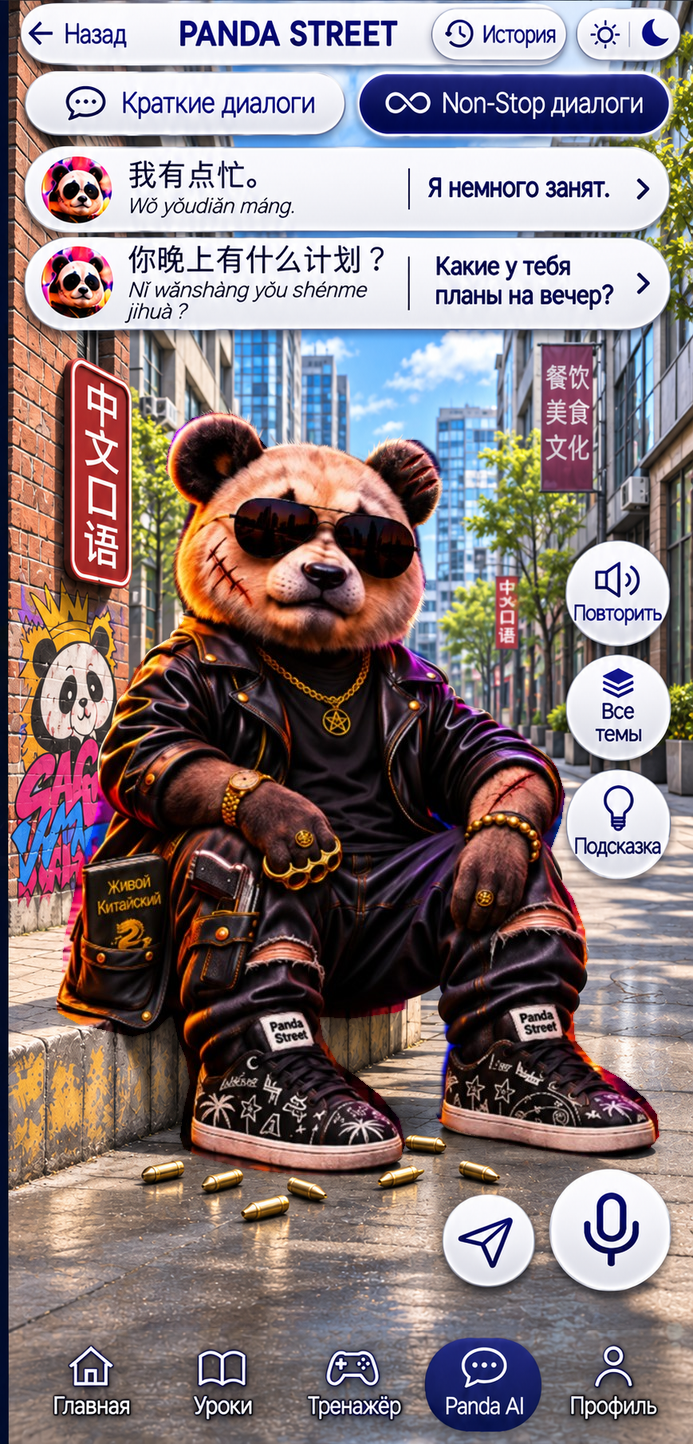
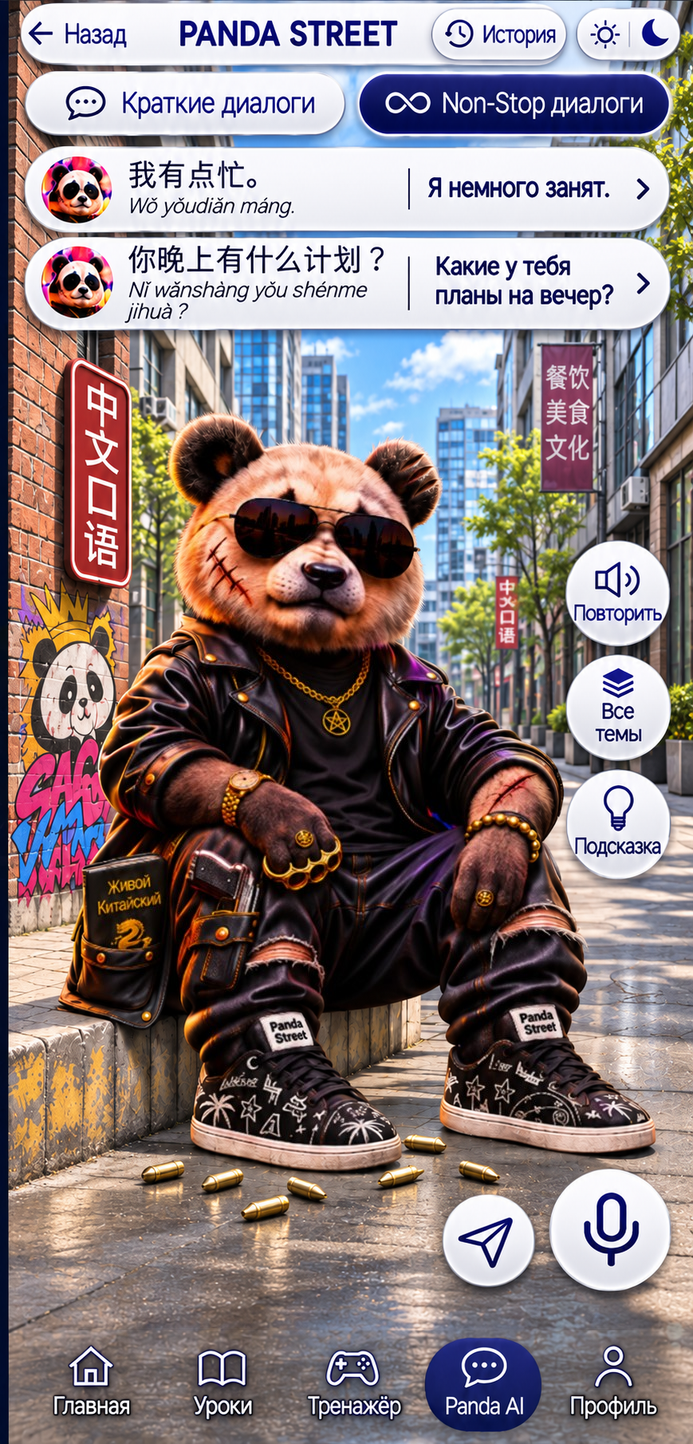
Rebuild the daytime panda outline and refresh cached artwork

Changed region(s): [[0.0606, 0.2805, 0.9697, 0.8414], [0.5152, 0.2805, 0.6364, 0.4675], [0.6364, 0.4675, 0.697, 0.4986]]

diff --git a/sw.js b/sw.js
@@ -1,4 +1,4 @@
-const CACHE='chinese-coach-pwa-v525-street-day-night';
+const CACHE='chinese-coach-pwa-v526-street-clean-day';
 // Only the application shell is required for an update. Pictures and audio are resumable downloads.
 // v262: refresh the active worker after updated lesson-two audio assets.
 const CORE=["./assets/panda-everyday-meaning-v515.mjs","./assets/panda-approved-voice-registry-v516.mjs?v=524","./assets/panda-ai-xiaoxiao-new-replies-20261122/panda01.mp3","./assets/panda-ai-xiaoxiao-new-replies-20261122/panda02.mp3","./assets/panda-ai-xiaoxiao-new-replies-20261122/panda03.mp3","./assets/panda-ai-xiaoxiao-new-replies-20261122/panda04.mp3","./assets/panda-ai-xiaoxiao-new-replies-20261122/panda05.mp3","./assets/panda-ai-xiaoxiao-new-replies-20261122/panda06.mp3","./assets/qa-v411/panda-voice-v422.mjs?v=422","./assets/panda-hsk2-preview-core-v1.mjs?v=524","./assets/panda-hsk2-preview-ui-v1.mjs?v=524","./assets/panda-hsk2-preview-v506.css?v=511","./assets/panda-hsk2-preview-audio-v1.mjs?v=524","./assets/panda-hsk2-brain-v1.mjs?v=523","./assets/panda-hsk2-basic-context-v1.mjs?v=5","./assets/panda-hsk2-brain-data-v1.mjs","./assets/panda-clarification-map-v504.mjs?v=505","./assets/panda-clarification-voice-20261122/index.mjs?v=505","./assets/hsk2-lesson1-voice-v459.js?v=459","./assets/panda-hsk2-my-day-scenario-v1.mjs?v=516","./panda-ai-hsk2-preview.html","./assets/panda-mobile-v394.css?v=394","./hsk2-life-course.html","./assets/hsk2-lesson-theme-v451.css?v=451","./assets/hsk2-panda-return-chat-v419.css?v=419","./assets/hsk2-panda-chat-clean-v420.css?v=420","./assets/hsk2-exact-overlay-v415.js?v=420","./assets/panda-live-screen-v270.mjs?v=465","./assets/panda-live-v346.mjs?v=453","./assets/panda-chat-corrections-v377.css?v=454","./assets/panda-approved-soft-v500.css?v=501","./assets/panda-approved-soft-v500.js?v=502","./panda-voice-pilot.html","./hsk2-bastian-intro.html","./assets/approved-course-v390/art-fit-v391.js?v=394","./assets/hsk2-day-first-ui-v1.js?v=413","./assets/hsk2-lesson1-android-fixes-v416.css?v=416","./assets/hsk2-lesson1-three-page-v418.css?v=418","./assets/pandago-art-touch-feedback-v395.js?v=417","./assets/hsk2-exact-overlay-v415.css?v=415","./assets/hsk2-approved-v414/01-words.webp","./assets/hsk2-approved-v414/02-rule.webp","./assets/hsk2-approved-v414/03-speech.webp","./assets/hsk2-approved-v414/04-test.webp","./assets/hsk2-approved-v414/05-examples.webp","./assets/hsk2-approved-v414/06-panda-ai.webp","./assets/hsk2-six-screens-v414.js?v=418","./assets/hsk2-six-screens-v414.css?v=414","./assets/hsk2-day-inline-ai-v414.js?v=415","./assets/hsk2-day-topic-one-v391.js?v=391","./assets/hsk2-day-no-scroll-v398.css?v=413","./assets/hsk2-day-scene-v413.css?v=413","./assets/panda-reference-v175.css?v=175","./assets/guided-voice-v1506.js?v=1","./assets/guided-introduction.js?v=151","./start-chinese.html","./hsk1-map.html","./assets/hsk1-v371-background.webp","./assets/hsk1-v371-header.webp","./assets/hsk1-v371-panda.webp","./assets/hsk1-map-v252.css?v=258","./assets/hsk1-v371-actions.webp","./hsk1-rhythm.html","./hsk1-lesson.html","./assets/hsk1-foundations-v152.css?v=171","./assets/hsk1-journey-approved-v176.css?v=176","./assets/hsk1-foundations-v152.js?v=230","./assets/hsk1-voices-map-v160.js?v=160","./assets/hsk1-foundations-data-v152.js?v=188","./assets/hsk1-intro-v188.css?v=188","./assets/hsk1-intro-v188.js?v=188","./assets/assemble-alive-v149.js?v=378","./assets/assemble-alive-v149.css?v=1","./assets/dialogue-player-v144.js?v=148","./assets/word-examples-v144.js?v=145","./assets/hanzi-paper-v141.png","./assets/panda-go-hero-clean-v174.webp","./assets/hanzi-approved-v141.png","./index.html","./hanzi-lab.html","./game.html","./travel.html","./assets/travel-entry-v1.css?v=1","./assets/travel-wow-v1.css?v=2","./assets/travel-voice-v1.js?v=3","./assets/travel-voice-v1.css?v=2","./assets/dialogue-voices-map.js?v=73","./assets/dialogue-voices-v73/status.json","./manifest.webmanifest","./assets/final-design.css?v=41","./assets/six-lessons-menu.css?v=2","./assets/menu-v3-approved.css?v=1","./assets/menu-v3-approved.js?v=3","./assets/panda-approved-lesson-ui-v129.css?v=1","./assets/panda-approved-lesson-ui-v129.js?v=1","./assets/menu-v3-approved.webp","./assets/learning-quality.css?v=53","./assets/semantic-art.js?v=29","./assets/voice-settings.js?v=61","./assets/listening-lab.js?v=61","./assets/pronunciation-hub.js?v=98","./assets/human-audio-map.js?v=106","./assets/study-audio-map.js?v=59","./assets/basic-word-audio-map.js?v=66","./assets/learning-quality.js?v=145","./assets/simple-learning.css?v=118","./assets/approved-lesson-design.css?v=56","./assets/mobile-compact-v60.css?v=61","./assets/pinyin-combinations.css?v=65","./assets/approved-lesson-design.js?v=112","./assets/clean-learning-sections.js?v=119","./assets/hsk1-roadmap-v103.js?v=103","./assets/clean-learning-sections.css?v=119","./assets/approved-screens-v109.css?v=112","./assets/hsk1-roadmap-v103.css?v=103","./assets/ui-polish-v69.css?v=69","./assets/ui-polish-v70.css?v=70","./assets/ui-polish-v71.css?v=71","./assets/game-practice-v102.js?v=119","./assets/game-sakura-petals-v126.js?v=1","./assets/game-original-listening-v86.css?v=87","./assets/game-practice-v76.css?v=77","./assets/game-practice-entry-v76.css?v=76","./assets/approved-v95.css?v=97","./assets/chinese-pastel-wallpaper.svg","./assets/game-polish-v77.css?v=77","./assets/game-immersive-v78.css?v=79","./assets/game-standalone-v80.css?v=88","./assets/game-crisp-build-choose-v89.css?v=94","./assets/game-approved-layout-v85.css?v=87","./assets/offline-pack.json","./assets/vendor/hanzi-writer.min.js","./icons/icon-192.png","./icons/icon-512.png","./icons/maskable-512.png","./assets/audit-fixes-v98.css?v=98.2","./assets/restore-design-v99.css?v=99.2","./assets/game-static-background-v102.css?v=108","./assets/progress-store-v98.js?v=98","./assets/daily-study-v98.js?v=117","./assets/approved-mobile-v112.css?v=119","./assets/vendor/icons/arrow-left.svg","./assets/vendor/icons/volume-2.svg","./assets/vendor/icons/message-circle-more.svg","./assets/panda-v130.css?v=151","./assets/hsk-approved-three-screens-v151.css?v=151","./assets/panda-word-sentences-v148.js?v=148","./assets/panda-v393-polish.css?v=393","./assets/bastian-split-v394.js?v=394","./assets/bastian-two-screen-v393.css?v=393","./assets/approved-course-v393-viewport.css?v=393","./assets/panda-hsk-scenic-v315.css?v=315","./assets/panda-hsk-two-levels-v314.css?v=314","./hsk1-hsk2-bridge.html","./assets/hsk2-speaking-v324.css?v=324","./assets/hsk1-hsk2-bridge-compact-v323.css?v=323","./assets/hsk2-one-screen-v323.css?v=323","./hsk1-second-v203.html","./hsk2-start.html","./assets/hsk2-compact-refinement-v328.css?v=328","./assets/hsk2-panda-new-v328.svg","./assets/hsk2-five-attempts-banner-v326.css?v=326","./assets/panda-guide-v215.svg","./assets/chinese-waterfall-banner.svg","./hsk2-introduction.html","./assets/hsk2-audio-v330.js?v=343","./assets/hsk2-audio-v330.css?v=339","./assets/hsk2-fixes-v329.css?v=329","./assets/hanzi-exact-v141.css?v=145","./assets/hanzi-exact-v141.js?v=145","./assets/hanzi-phrases-v141.js?v=141","./assets/hsk1-archive-style-v178.css?v=179","./assets/hsk1-separate-steps-v178.js?v=179","./assets/hsk1-compact-v180.css?v=180","./assets/hsk1-compact-v180.js?v=181","./assets/hsk1-coach-v181.css?v=181","./assets/hsk1-clarity-v182.css?v=182","./hsk1-first-v189.html","./assets/hsk1-first-v189.css?v=300","./assets/hsk1-first-v189.js?v=300","./assets/hsk1-native-clean-v198.js?v=198","./assets/native-owner-v200.js?v=200","./assets/lesson-viewport.js?v=237","./assets/owner-audio-v237.js?v=237","./assets/fallback-audio-v237.js?v=237","./assets/lesson-audio-source.js?v=282","./assets/hsk1-v371-ribbons.webp","./assets/panda-topic-catalog-v374.css?v=374","./assets/panda-mobile-cleanup-v378.css?v=378","./assets/panda-live-audio.mjs?v=451","./assets/hsk2-user-voice/phrase-index-v332.js?v=336","./assets/panda-voice-pilot.css?v=326","./assets/panda-ask-catalog-v326.mjs?v=436","./assets/panda-basic-conversation-v323.mjs?v=336","./assets/panda-live-dialogue-v272.mjs?v=434","./assets/panda-home-photo1-v319.css?v=319","./assets/panda-home-approved-photo1-v319.jpg","./hsk2-city-work.html","./assets/hsk2-speaking-v326.js?v=345","./assets/hsk2-premium-v352.css?v=353","./assets/hsk2-lesson1-fidelity-v356.css?v=357","./assets/hsk2-life-approved-fullscreen-v412.png","./assets/hsk2-life-welcome-v412.css?v=412","./assets/hsk2-approved-20261117/home.jpg","./assets/hsk2-approved-20261117/lesson1.jpg","./assets/hsk2-approved-20261117.css?v=432","./assets/hsk2-approved-20261117.js?v=432","./assets/panda-topics-compact-v436.css?v=436","./assets/panda-audio-study-v436.mjs?v=436","./assets/hsk2-storyboard-v433.css?v=433","./assets/hsk2-storyboard-v433-avatar.jpg","./assets/hsk2-responsive-v439.css?v=439","./assets/hsk2-viewport-v440.css?v=440","./assets/panda-error-coach-v441.mjs?v=441","./assets/hsk2-day-upgrades-v441.css?v=441","./assets/hsk2-day-upgrades-v441.js?v=443","./assets/hsk2-lilac-pink-v444.css?v=444","./assets/panda-v130.js?v=444","./assets/hsk2-home-v445.webp","./panda-tone-ma-practice.html","./assets/panda-tone-ma-pilot-v463.mjs?v=468","./assets/panda-tone-analytics-v457.mjs?v=468","./assets/panda-tone-recording-analysis-v465.mjs?v=467","./assets/hsk1-tone-practice-bridge-v463.js?v=463","./panda-tone-exercises.html","./assets/panda-tone-exercises-v469.mjs?v=469","./assets/panda-tone-lesson-entry-v469.js?v=469","./assets/hsk2-life-course-app-v1.js?v=509","./assets/hsk2-storyboard-v439.js?v=509","./assets/hsk2-grammar-review.js?v=507","./assets/hsk2-catalog-premium-v1.css?v=509","./assets/panda-approved-hanzi-ui-v129.css?v=1"];
@@ -8,7 +8,7 @@ const CORE_ART=new Set(["./assets/hsk2-home-v445.webp","./assets/panda-home-appr
 const STREET_SHELL=[
  "./panda-street-ai-preview.html",
  "./assets/panda-street-day-night/night.webp",
- "./assets/panda-street-day-night/day.webp",
+ "./assets/panda-street-day-night/day.webp?v=2",
  "./assets/panda-brain-hsk1-v302.mjs?v=302",
  "./assets/panda-calendar-literal-v383.mjs?v=401",
  "./assets/panda-chat-corrections-v377.mjs?v=377",

diff --git a/panda-street-ai-preview.html b/panda-street-ai-preview.html
@@ -78,7 +78,7 @@ html,body{margin:0;width:100%;height:100%;height:100dvh;overflow:hidden;backgrou
 </style><script src="./assets/hsk1-foundations-data-v152.js?v=188"></script></head>
 <body><main id="stage" aria-label="Panda Street AI — утверждённый экран">
 <img id="src" alt="" src="./assets/panda-street-day-night/night.webp">
-<img id="day-src" alt="" src="./assets/panda-street-day-night/day.webp">
+<img id="day-src" alt="" src="./assets/panda-street-day-night/day.webp?v=2">
 <canvas id="art" aria-hidden="true"></canvas>
 <canvas id="day-art" aria-hidden="true"></canvas>
 <button id="back" class="hit" aria-label="Вернуться в действующую Panda AI"></button>
